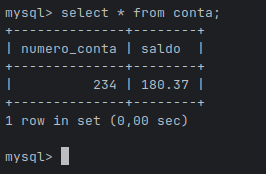
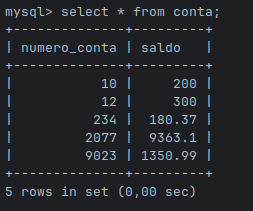
Imagens refeitas e README atualizado

diff --git a/README.md b/README.md
@@ -53,6 +53,8 @@ public record ContaDTO(Integer id, float saldo) {}
 ![tabela criada no sistema](src/main/resources/screenshots/conta/tabelaCriada.png)
 - Ao executar o método POST no Postman, tem-se:
 
+![conta criada no Postman](src/main/resources/screenshots/conta/contaCriada.png)
+
 ![conta criada na tabela](src/main/resources/screenshots/conta/contaCriadaNaTabela.png)
 
 ### Criação do método GET
@@ -78,12 +80,12 @@ public record ContaDTO(Integer id, float saldo) {}
 ### Criação da Entidade JPA Transação, DTO Record e Controller
 
 ### Realização da Lógica de Taxas
-- Transação PIX
-
-![transação pix](src/main/resources/screenshots/transacao/transacaoPix.png)
 - Saldo Antes PIX
 
 ![saldo antes da transação pix](src/main/resources/screenshots/transacao/saldoAntesTransacaoPix.png)
+- Transação PIX
+
+![transação pix](src/main/resources/screenshots/transacao/transacaoPix.png)
 - Saldo Após PIX
 
 ![saldo após a transação pix](src/main/resources/screenshots/transacao/saldoAposTransacaoPix.png)
@@ -93,6 +95,9 @@ public record ContaDTO(Integer id, float saldo) {}
 - Saldo Após Crédito
 
 ![saldo após a transação crédito](src/main/resources/screenshots/transacao/saldoAposTransacaoCredito.png)
+- Saldo Antes Débito
+
+![saldo antes da transação débito](src/main/resources/screenshots/transacao/saldoAntesTransacaoDebito.png)
 - Transação Débito
 
 ![transação débito](src/main/resources/screenshots/transacao/transacaoDebito.png)
@@ -102,3 +107,23 @@ public record ContaDTO(Integer id, float saldo) {}
 - Saldo Insuficiente
 
 ![saldo insuficiente](src/main/resources/screenshots/transacao/saldoInsuficiente.png)
+
+## Testes Automatizados
+
+- Foram testadas a ContaRepository e o TransacaoController
+- Utilizado o MockMvc para simular requisições HTTP nos controllers
+- Utilizado o DataJpaTest para testar os repositories com um banco de dados
+
+### Testes do Repository
+
+- Foram testadas a busca da conta pelo ID (numeroConta) e o salvamento da conta
+
+![teste do repository](src/main/resources/screenshots/testes/testeRepository.png)
+
+### Testes do Controller
+
+- Foram testadas transações com uma conta não existente, uma transação débito com saldo suficiente e uma transação 
+  com saldo insuficiente
+
+![teste do controller](src/main/resources/screenshots/testes/testeController.png)
+
